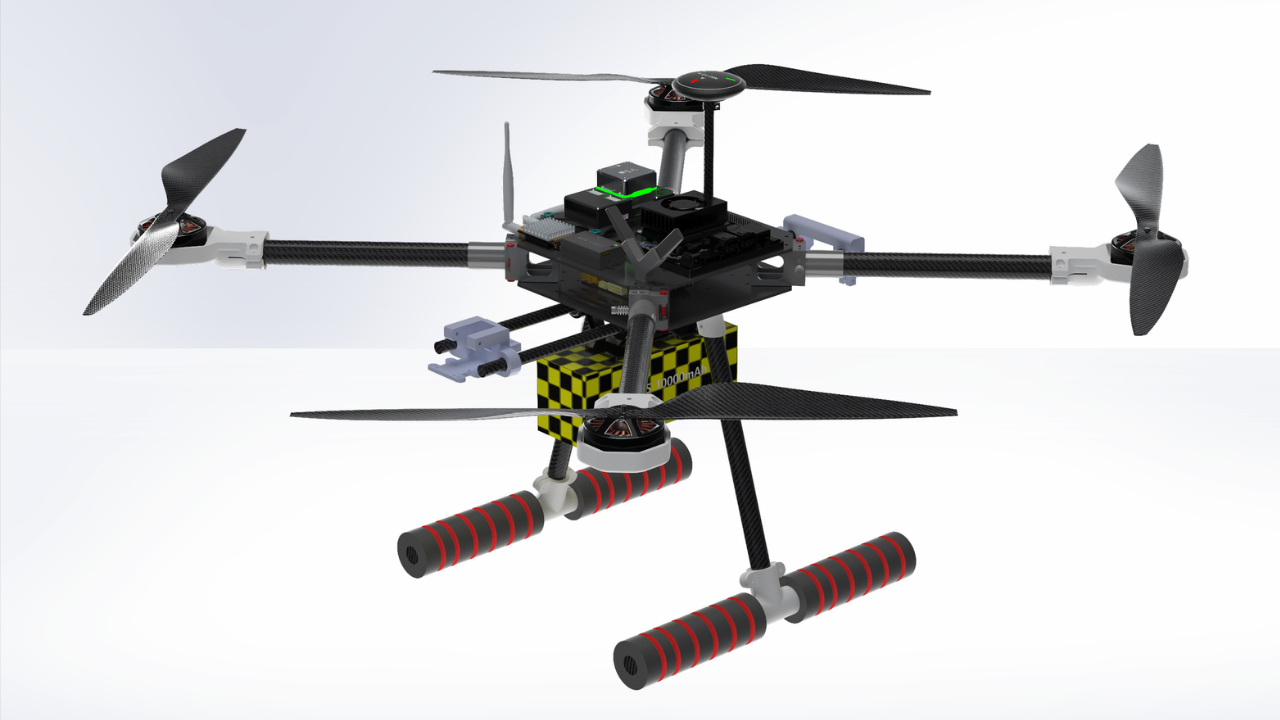
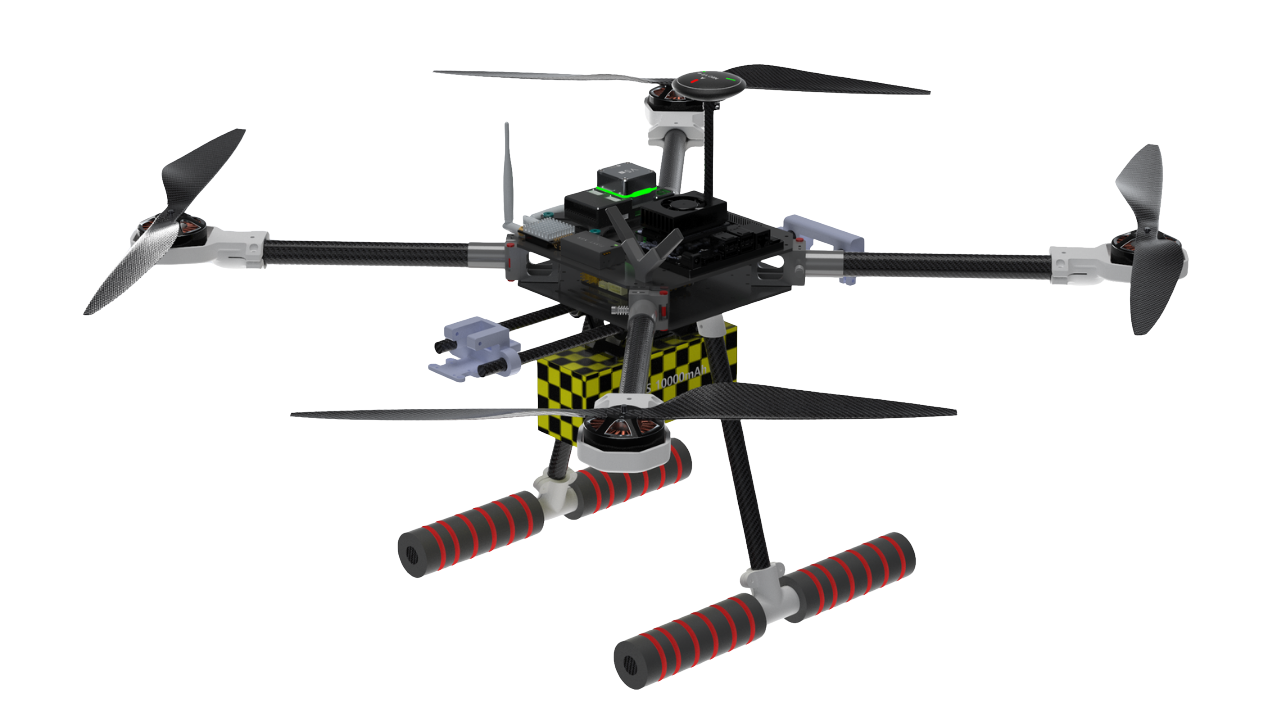
Project auj added

diff --git a/src/data/missions.ts b/src/data/missions.ts
@@ -12,7 +12,7 @@
 
 import { PENDING, type Pending } from "./pending";
 
-export type MissionSeries = "imeche" | "suas";
+export type MissionSeries = "imeche" | "suas" | "teknofest";
 
 export type Mission = {
   slug: string;
@@ -52,6 +52,13 @@ export const series: Record<
     description:
       "The SUAS competition fosters interest in Unmanned Aerial Systems, stimulates interest in UAS technologies, and engages students in a challenging mission. It requires students to design, integrate, report on, and demonstrate a UAS capable of autonomous flight and navigation, remote sensing via onboard payload sensors, and execution of a specific set of tasks.",
   },
+  teknofest: {
+    name: "TEKNOFEST",
+    short: "TEKNOFEST",
+    country: "Turkey",
+    description:
+      "TEKNOFEST is a major aerospace and technology festival featuring competitive tracks where university teams present innovative UAV projects and prototypes. The event emphasises practical design, rapid prototyping, autonomy, and mission capability, bringing together international teams to demonstrate solutions for real-world challenges.",
+  },
 };
 
 /** The four SUAS mission tasks, carried over from the old AUVSI page. */
@@ -75,6 +82,23 @@ export const suasTasks = [
 ];
 
 export const missions: Mission[] = [
+  {
+    slug: "teknofest-2025-auj",
+    competition: "TEKNOFEST Turkey",
+    series: "teknofest",
+    year: 2025,
+    country: "Turkey",
+    venue: PENDING,
+    aircraftSlug: "auj",
+        result: "11th of 131 teams",
+    podium: false,
+    awards: [],
+    summary:
+      "Project AUJ: a rotary-wing quadcopter developed for TEKNOFEST Turkey 2025. The design features an X-frame quadcopter with folding arms for portability, a modular payload system supporting servo-based drops and an electromagnet for retrieval, Jetson Orin Nano–based vision (YOLO) for marker detection, and CUAV V5+ autopilot integration for autonomous mission execution.",
+    photos: ["/img/teknofest1.jpeg", "/img/teknofest2.jpeg"],
+    lessons: PENDING,
+  },
+
   {
     slug: "imeche-2024",
     competition: "IMechE UAS Challenge",

diff --git a/src/components/AircraftDossier.tsx b/src/components/AircraftDossier.tsx
@@ -4,7 +4,7 @@ import Image from "next/image";
 import Link from "next/link";
 import { useId, useState } from "react";
 import type { Aircraft } from "@/data/aircraft";
-import { isPending, settled } from "@/data/pending";
+import { isPending } from "@/data/pending";
 import { PendingChip } from "./Pending";
 import { Pill, SpecRow } from "./primitives";
 import TelemetryPanel, { type TelemetryBar } from "./TelemetryPanel";
@@ -41,8 +41,6 @@ export default function AircraftDossier({
   const [open, setOpen] = useState(defaultOpen);
   const [tab, setTab] = useState<Tab>("Overview");
   const baseId = useId();
-  const gallery = settled(item.gallery) ?? [];
-  const drawings = settled(item.drawings);
 
   function onKeyDown(e: React.KeyboardEvent) {
     const i = TABS.indexOf(tab);
@@ -184,31 +182,6 @@ export default function AircraftDossier({
                 <SpecRow key={s.label} label={s.label} value={s.value} />
               ))}
             </dl>
-            {!drawings && (
-              <div className="mt-5 border border-dashed border-line p-4">
-                <PendingChip label="Awaiting SolidWorks drawings" />
-                <p className="mt-2 max-w-[60ch] text-sm text-titanium-text">
-                  Export drawing views as DXF or SVG — hidden lines removed, no
-                  dimensions or title block — and the annotated diagram renders
-                  here.
-                </p>
-              </div>
-            )}
-            {gallery.length > 0 && (
-              <div className="mt-5 grid gap-2 sm:grid-cols-2">
-                {gallery.map((src) => (
-                  <div key={src} className="relative aspect-[4/3] border border-line">
-                    <Image
-                      src={src}
-                      alt={`Project ${item.name}`}
-                      fill
-                      sizes="(max-width: 640px) 100vw, 50vw"
-                      className="object-cover"
-                    />
-                  </div>
-                ))}
-              </div>
-            )}
           </div>
 
           {/* Telemetry */}

diff --git a/src/data/aircraft.ts b/src/data/aircraft.ts
@@ -54,6 +54,35 @@ export type Aircraft = {
 
 export const aircraft: Aircraft[] = [
   {
+    slug: "auj",
+    name: "AUJ",
+    designation: "FTX-09",
+    year: 2025,
+    airframe: "X-quadcopter",
+    category: "Multirotor",
+    missionSlug: "teknofest-2025-auj",
+    competition: "TEKNOFEST Turkey 2025",
+    result: "11th of 131 teams",
+    podium: false,
+    thesis: PENDING,
+    photo: "/img/Project auj.png",
+    overview:
+      "Project AUJ is a foldable X-frame quadcopter developed for TEKNOFEST Turkey 2025. It features a modular payload mechanism with servo drop and electromagnet retrieval, Jetson-based vision for autonomous marker detection, and CUAV V5+ integration for robust autonomy.",
+    specs: [
+      { label: "Maximum Takeoff Mass", value: "3.813 kg" },
+      { label: "Top Airspeed", value: "16.91 m/s" },
+      { label: "Payload Capacity (mission limit)", value: "200 g" },
+      { label: "Power System", value: "7000 mAh 6S Li-Po" },
+    ],
+    gallery: ["/img/teknofest1.jpeg", "/img/teknofest2.jpeg"],
+    drawings: PENDING,
+    callouts: PENDING,
+    missionProfile:
+      "A rotary-wing design optimised for mission payload delivery, retrieval, and rapid deployment from a compact storage box.",
+    autonomy: PENDING,
+  },
+
+  {
     slug: "cardinal",
     name: "Cardinal",
     designation: "FTX-08",

diff --git a/src/data/origin.ts b/src/data/origin.ts
@@ -66,6 +66,14 @@ export const milestones: Milestone[] = [
     image: "/img/Project Cardinal.png",
     detail: PENDING,
   },
+  {
+    year: "2025",
+    title: "TEKNOFEST Campaign",
+    body: "Project AUJ represented the team at TEKNOFEST Turkey 2025, placing 11th out of 131 participating teams.",
+    href: "/aircraft/auj",
+    image: "/img/Project auj.png",
+    detail: PENDING,
+  },
 ];
 
 /** Sub-team structure, carried over verbatim from the old About Us page. */
